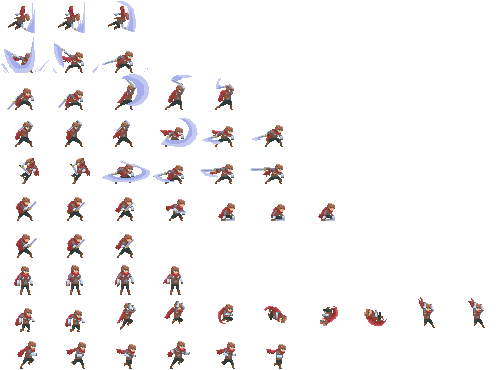
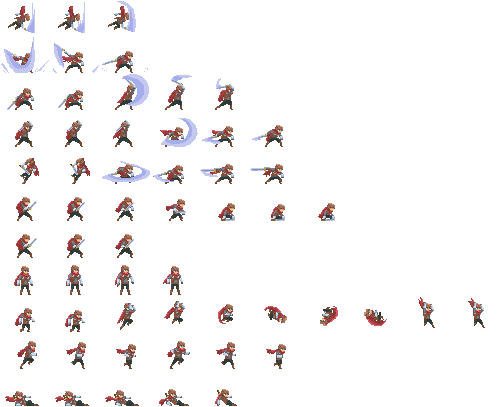
1115
캐릭터, 유물 정보 표시
캐릭터 슬라이딩 추가

diff --git a/기말프로젝트/src/Character.py b/기말프로젝트/src/Character.py
@@ -1,5 +1,6 @@
 import Ingame_state
 import Relic
+import UI
 from pico2d import *
 
 debug = False
@@ -7,19 +8,24 @@ debug = False
 # 달리기 입력 무시
 RUN_EXCEPTION = (
     'attack1', 'attack2', 'attack3',
-    'air_attack1', 'air_attack2', 'hit'
+    'air_attack1', 'air_attack2', 'hit', 'slide'
 )
 
 # 점프 입력 무시
 JUMP_EXCEPTION = (
     'attack1', 'attack2', 'attack3',
-    'air_attack1', 'air_attack2', 'hit'
+    'air_attack1', 'air_attack2', 'hit', 'slide'
 )
 
 # 공격 입력 무시
 ATTACK1_EXCEPTION = (
     'attack1', 'attack2', 'attack3',
-    'air_attack1', 'air_attack2', 'hit'
+    'air_attack1', 'air_attack2', 'hit', 'slide'
+)
+
+# 슬라이딩 입력 무시
+SLIDE_EXCEPTION = (
+    'air_attack1', 'air_attack2', 'slide'
 )
 
 class Character:
@@ -35,6 +41,7 @@ class Character:
         self.frame, self.timer = 0, 0                                           # 프레임, 타이머
         self.state, self.subState = 'idle', 'jump'                              # 상태, 서브상태
         self.dir, self.x, self.y, self.dx, self. dy = 'RIGHT', 400, 150, 0, 0   # 좌우, 좌표와 움직임속도
+        self.relicGainPos = []                                                  # 유물 획득 위치 정보
 
         ### 캐릭터 피격, 공격 관련 변수들 ###
         self.hitBox = (0, 0, 0, 0)                                              # 히트박스
@@ -45,7 +52,6 @@ class Character:
         self.maxHp, self.localMaxHP, self.hp = 50, 50, 50                       # 원래 최대HP, 최종 최대HP, 현재HP
         self.ad, self.AS, self.df, self.speed, = 5, 0, 0, 0                     # 공격력, 공격속도, 방어력, x축 추가 이동속도
         self.relic = []                                                         # 유물
-        #self.relicIdList = []                                                   # 유물 코드
 
         ### 캐릭터 모션별 범위 변수들 :: JSON ###
         self.MOTION_YSHEET = {}
@@ -99,9 +105,11 @@ class Character:
 
         # 점프
         if (e.key, e.type) == (SDLK_c, SDL_KEYDOWN) and self.state not in JUMP_EXCEPTION and self.subState == 'none':
+            self.state = 'idle'
             self.subState = 'jump'
             self.frame, self.timer = 0, 0
             self.y, self.dy = self.y + 10, 6
+            self.dx = 0
 
         # 더블점프
         elif (e.key, e.type) == (SDLK_c, SDL_KEYDOWN) and self.subState == 'jump':
@@ -116,6 +124,7 @@ class Character:
                     self.subState = 'jump3'
                     self.frame, self.timer = 0, 0
                     self.y, self.dy = self.y + 5, 5
+                    break
 
         # 왼쪽 달리기
         elif (e.key, e.type) == (SDLK_LEFT, SDL_KEYDOWN):
@@ -145,10 +154,23 @@ class Character:
                 self.state = 'idle'
                 self.dx = 0
 
+        # 슬라이딩
+        elif (e.key, e.type) == (SDLK_SPACE, SDL_KEYDOWN) and self.state not in SLIDE_EXCEPTION and 'jump' not in self.subState:
+            if self.leftKeyDown:
+                self.state = 'slide'
+                self.frame, self.timer = 0, 0
+                self.dir = 'LEFT'
+                self.dx = -5
+            elif self.rightKeyDown:
+                self.state = 'slide'
+                self.frame, self.timer = 0, 0
+                self.dir = 'RIGHT'
+                self.dx = 5
+
         # 상호작용
         elif (e.key, e.type) == (SDLK_z, SDL_KEYDOWN) and (self.state == 'idle'):
             interaction_result = Ingame_state.chr_interaction_check()
-            if interaction_result != (-1, -1):
+            if interaction_result != -1:
                 self.interaction_handler(interaction_result)
 
         # 기본공격 1타
@@ -178,9 +200,13 @@ class Character:
             self.attackKeyDown = False
 
     def interaction_handler(self, type):
-        if type == (0, 1): # 유물 상자
-            Relic.addRandomRelic()
-            Relic.updateChrStat()
+        if (type[0], type[1]) == (0, 1): # 유물 상자
+            if (Ingame_state.map.id, type[2], type[3]) in self.relicGainPos:
+                UI.addString([self.x, self.y], '상자가 비어있습니다.', (255, 255, 255), 1, 0.1)
+            else:
+                self.relicGainPos.append( (Ingame_state.map.id, type[2], type[3]) )
+                Relic.addRandomRelic()
+                Relic.updateChrStat()
 
     def update_chr_pos(self, delta_time):
         self.frame += 1
@@ -230,6 +256,26 @@ class Character:
                 self.frame, self.dy = 0, 0
                 self.y = Landing_Result[1]
 
+        # 슬라이드
+        elif self.state == 'slide':
+            # update Cycle
+            self.timer += delta_time
+            if self.timer > delta_time * 6:
+                if self.dir == 'LEFT' and self.dx < 0:
+                    self.dx += 1
+                elif self.dir == 'RIGHT' and self.dx > 0:
+                    self.dx -= 1
+                self.timer = 0
+            if self.frame >= self.MOTION_FRAME[self.state] * self.MOTION_DELAY[self.state]:
+                self.state = 'idle'
+                self.frame, self.timer, self.dx = 0, 0, 0
+
+            # Landing Check
+            Landing_Result = Ingame_state.chr_landing_check()
+            if not Landing_Result[0]:
+                self.state = 'idle'
+                self.subState = 'jump'
+
         # 사망
         elif self.state == 'die':
             if self.frame >= self.MOTION_FRAME['die'] * self.MOTION_DELAY['die']:
@@ -278,7 +324,11 @@ class Character:
         # Collide Check
         Collide_Result = Ingame_state.chr_collide_check()
         if Collide_Result[0]:
-            if Collide_Result[1] != 0: self.x = Collide_Result[1]
+            if Collide_Result[1] != 0:
+                if self.dx > 0:
+                    self.x = Collide_Result[1] + self.MOTION_HITBOX[self.state][0]
+                else:
+                    self.x = Collide_Result[1] - self.MOTION_HITBOX[self.state][0]
             if Collide_Result[2] != 0: self.y = Collide_Result[2]
             self.dx, self.dy = Collide_Result[3], Collide_Result[4]
 
@@ -290,14 +340,14 @@ class Character:
         if self.state == 'die': return
 
         if self.dir == 'RIGHT':
-            if self.subState == 'jump' or self.subState == 'jump2':
+            if 'jump' in self.subState:
                 self.hitBox = (self.x - self.MOTION_HITBOX[self.subState][0], self.y + self.MOTION_HITBOX[self.subState][1],
                                self.x - self.MOTION_HITBOX[self.subState][2], self.y + self.MOTION_HITBOX[self.subState][3])
             else:
                 self.hitBox = (self.x - self.MOTION_HITBOX[self.state][0], self.y + self.MOTION_HITBOX[self.state][1],
                                self.x - self.MOTION_HITBOX[self.state][2], self.y + self.MOTION_HITBOX[self.state][3])
         else:
-            if self.subState == 'jump' or self.subState == 'jump2':
+            if 'jump' in self.subState:
                 self.hitBox = (self.x - self.MOTION_HITBOX[self.subState][0], self.y + self.MOTION_HITBOX[self.subState][1],
                                self.x - self.MOTION_HITBOX[self.subState][2], self.y + self.MOTION_HITBOX[self.subState][3])
             else:

diff --git a/기말프로젝트/src/UI.py b/기말프로젝트/src/UI.py
@@ -15,9 +15,12 @@ def load():
     Font12 = load_font('../res/UI/모리스9.ttf', 12)
     relic_image = load_image('../res/Item/relic.png')
 
-
+    chr_info_image['base'] = load_image('../res/UI/CHR_INFO_UI_BASE.png')
+    chr_info_image['hpbar'] = load_image('../res/UI/CHR_HP_BAR.png')
     chr_info_image['ad'] = load_image('../res/UI/ad.png')
-
+    chr_info_image['as'] = load_image('../res/UI/as.png')
+    chr_info_image['df'] = load_image('../res/UI/df.png')
+    chr_info_image['sp'] = load_image('../res/UI/speed.png')
 
     Relic.loadRelicData()
 
@@ -37,7 +40,6 @@ def addString(pos, string, color, time, dy):
 def drawRelic():
     chr = Ingame_state.chr
     for i in range(len(chr.relic)):
-        #draw_rectangle(20 + 32 * i - 16, 580 - 16, 20 + 32 * i + 16, 580 + 16)
         relic_image.clip_draw(chr.relic[i].id % 100 * 128, (chr.relic[i].id // 100 - 1) * 128, 128, 128, 20 + 32 * i, 600 - (chr.relic[i].id // 100) * 20, 64, 64)
         if chr.relic[i].stack != -1:
             if chr.relic[i].isActive:
@@ -46,28 +48,66 @@ def drawRelic():
                 rgb = (255, 255, 255)
             Font12.draw(26 + 32 * i, 600 - (chr.relic[i].id // 100) * 20 - 8, str(chr.relic[i].stack), rgb)
 
-def drawRelicInfo():
+def drawRelicDesc():
     r = Ingame_state.chr.relic
     for i in range(len(r)):
-        if 20 + 32 * i - 16 <= mPos[0] <= 20 + 32 * i + 16 and \
-           580 - 16 <= mPos[1] <= 580 + 16:
-            Font12.draw(mPos[0], mPos[1] - 32, str(r[i].name), (255, 255, 255))
-            Font12.draw(mPos[0], mPos[1] - 44, str(r[i].desc), (255, 255, 255))
-            Font12.draw(mPos[0], mPos[1] - 56, str(r[i].flavorText), (150, 150, 150))
+        if 20 + 32 * i - 16 < mPos[0] < 20 + 32 * i + 16 and \
+           580 - 16 < mPos[1] < 580 + 16:
+            Font12.draw(6 + 32 * i, 556, str(r[i].name), (255, 255, 255))
+            Font12.draw(6 + 32 * i, 544, str(r[i].desc), (255, 255, 255))
+            Font12.draw(6 + 32 * i, 532, str(r[i].flavorText), (150, 150, 150))
 
 def drawChrInfo():
     chr = Ingame_state.chr
 
+    # 체력바
+    chr_info_image['hpbar'].clip_draw_to_origin(0, 0, 154, 12, 12, 37, chr.hp / chr.localMaxHP * 154, 12)
+
+    # 베이스
+    chr_info_image['base'].draw_to_origin(10, 10, 158, 41)
+
+    # 체력
+    Font12.draw(72, 42, str(chr.hp) + ' / ' + str(chr.localMaxHP), (255, 255, 255))
+
     # 공격력
-    chr_info_image['ad'].clip_draw(0, 0, 72, 72, 400, 30, 16, 16)
-    Font12.draw(416, 30, str(chr.ad), (255, 255, 255))
+    chr_info_image['ad'].clip_draw(0, 0, 72, 72, 25 + 2, 24, 16, 16)
+    Font12.draw(37, 23, str(chr.ad), (255, 255, 255))
 
     # 공격속도
-    chr_info_image['as'].clip_draw(0, 0, 72, 72, 400, 30, 16, 16)
-    Font12.draw(416, 30, str(chr.AS), (255, 255, 255))
+    chr_info_image['as'].clip_draw(0, 0, 72, 72, 62 + 2, 24, 16, 16)
+    Font12.draw(74, 23, str(chr.AS), (255, 255, 255))
 
-   Font12.draw(400, 16, str(chr.hp) + '/' + str(chr.localMaxHP), (255, 255, 255))
+    # 방어력
+    chr_info_image['df'].clip_draw(0, 0, 72, 72, 99 + 2, 24, 16, 16)
+    Font12.draw(111, 23, str(chr.df), (255, 255, 255))
 
+    # 이동속도
+    chr_info_image['sp'].clip_draw(0, 0, 72, 72, 136 + 2, 24, 16, 16)
+    Font12.draw(148, 23, str(chr.speed), (255, 255, 255))
+
+def drawChrInfoDesc():
+    chr = Ingame_state.chr
+    infoX, infoY = 173, 42
+    if 12 <= mPos[0] <= 12 + 154 and 37 <= mPos[1] <= 37 + 12:
+        Font12.draw(infoX, infoY, str('체력'), (244, 41, 65))
+        Font12.draw(infoX, infoY - 12, str('0이 되면 캐릭터가 사망합니다.'), (255, 255, 255))
+        Font12.draw(infoX, infoY - 24, '[기본 50 + 추가 ' + str(chr.localMaxHP - 50) + ']', (255, 255, 255))
+    elif 25 - 8 <= mPos[0] <= 25 + 8 and 24 - 8 <= mPos[1] <= 24 + 8:
+        Font12.draw(infoX, infoY, '공격력', (246, 70, 91))
+        Font12.draw(infoX, infoY - 12, '공격으로 ' + str(chr.ad) + ' 만큼의 피해를 줍니다.', (255, 255, 255))
+        Font12.draw(infoX, infoY - 24, '[기본 5 + 추가 ' + str(chr.ad - 5) + ']', (255, 255, 255))
+    elif 64 - 8 <= mPos[0] <= 64 + 8 and 24 - 8 <= mPos[1] <= 24 + 8:
+        Font12.draw(infoX, infoY, '공격속도', (255, 255, 0))
+        Font12.draw(infoX, infoY - 12, '공격 속도가 ' + str(chr.AS) +'% 증가합니다.', (255, 255, 255))
+        Font12.draw(infoX, infoY - 24, '[기본 0 + 추가 ' + str(chr.AS) + ']', (255, 255, 255))
+    elif 101 - 8 <= mPos[0] <= 101 + 8 and 24 - 8 <= mPos[1] <= 24 + 8:
+        Font12.draw(infoX, infoY, '방어력', (15, 245, 145))
+        Font12.draw(infoX, infoY - 12, '입는 피해량이 ' + str(chr.df) + ' 감소합니다.', (255, 255, 255))
+        Font12.draw(infoX, infoY - 24, '[기본 0 + 추가 ' + str(chr.df) + ']', (255, 255, 255))
+    elif 138 - 8 <= mPos[0] <= 138 + 8 and 24 - 8 <= mPos[1] <= 24 + 8:
+        Font12.draw(infoX, infoY, '이동속도', (82, 219, 255))
+        Font12.draw(infoX, infoY - 12, '이동하는 속도가 ' + str(chr.speed) + '% 증가합니다.', (255, 255, 255))
+        Font12.draw(infoX, infoY - 24, '[기본 0 + 추가 ' + str(chr.speed) + ']', (255, 255, 255))
 
 def printStringData():
     for i in stringData:
@@ -81,8 +121,9 @@ def printStringData():
 
 def draw():
     drawRelic()
-    drawRelicInfo()
+    drawRelicDesc()
     drawChrInfo()
+    drawChrInfoDesc()
     printStringData()
 
 def GetTextDimensions(text, points, font):

diff --git a/기말프로젝트/src/Relic.py b/기말프로젝트/src/Relic.py
@@ -22,7 +22,7 @@ def addRandomRelic():
 
     # 모든 유물을 갖고있을 경우
     if len(inven) >= 10:
-        UI.addString([chr.x, chr.y], '더 이상 획득할 유물이 없습니다.', (255, 255, 255), 1, 0.1)
+        UI.addString([chr.x, chr.y + 5], '더 이상 획득할 유물이 없습니다.', (255, 255, 255), 1, 0.1)
         return
 
     # 중복없이 랜덤으로 한 개 획득
@@ -53,7 +53,7 @@ def addRandomRelic():
             r.flavorText = relic_data[str(_id)]['FLAVOR_TEXT']
             
             inven.append(r)
-            UI.addString([chr.x, chr.y], '유물을 획득했습니다!', (255, 255, 255), 1, 0.1)
+            UI.addString([chr.x, chr.y + 5], '유물을 획득했습니다!', (255, 255, 255), 1, 0.1)
             break
 
     updateChrStat()

diff --git a/기말프로젝트/src/Ingame_state.py b/기말프로젝트/src/Ingame_state.py
@@ -13,6 +13,7 @@ chr = Character()
 def eventHandler(e):
     if e.type == SDL_QUIT or (e.type, e.key) == (SDL_KEYDOWN, SDLK_ESCAPE):
         Framework.running = False
+
     # 캐릭터 이벤트처리
     chr.eventHandler(e)
 
@@ -131,13 +132,14 @@ def chr_portal_check():
 
                 chr.subState = 'jump2'
                 chr.x, chr.y = portal[5], portal[6]
+                chr.dx, chr.dy = 0, 0
             return
 
 def chr_interaction_check():
     for obj in map.objectRect:
         if obj[0] <= chr.x <= obj[2] and obj[3] <= chr.y - 10 <= obj[1]:
-            return obj[4], obj[5]
-    return -1, -1
+            return obj[4], obj[5], (obj[0] + obj[2]) / 2, (obj[1] + obj[3]) / 2
+    return -1
 
 def mob_hit_check(hitBox):
     HIT = False

diff --git a/기말프로젝트/src/Damage_Parser.py b/기말프로젝트/src/Damage_Parser.py
@@ -78,7 +78,9 @@ def chr_hp_recovery(chr, amount):
     _amount = amount
     
     # 유물 :: 마법 꽃
-    if 106 in chr.relicIdList:
-        _amount *= 1.5
+    for r in chr.relic:
+        if r.id == 106:
+            _amount *= 1.5
     chr.hp += round(_amount)
+    chr.hp = min(chr.hp, chr.localMaxHP)
     UI.addString([chr.x, chr.y], str(round(_amount)), (50, 255, 50), 0.5, 0.1)

diff --git a/기말프로젝트/editer/ini.py b/기말프로젝트/editer/ini.py
@@ -2,7 +2,7 @@ import math
 
 # This variables should be modified myself
 # Map
-MAPID = 100
+MAPID = 200
 MAP_WIDTH = 800
 MAP_HEIGHT = 600
 
